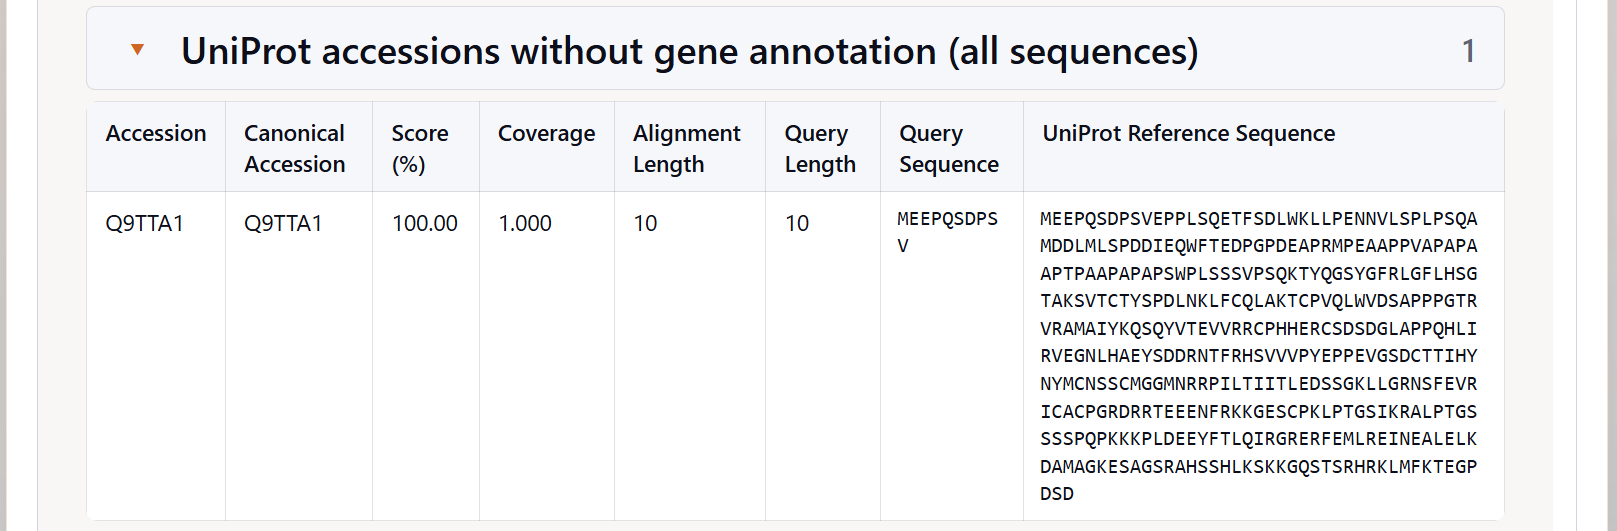
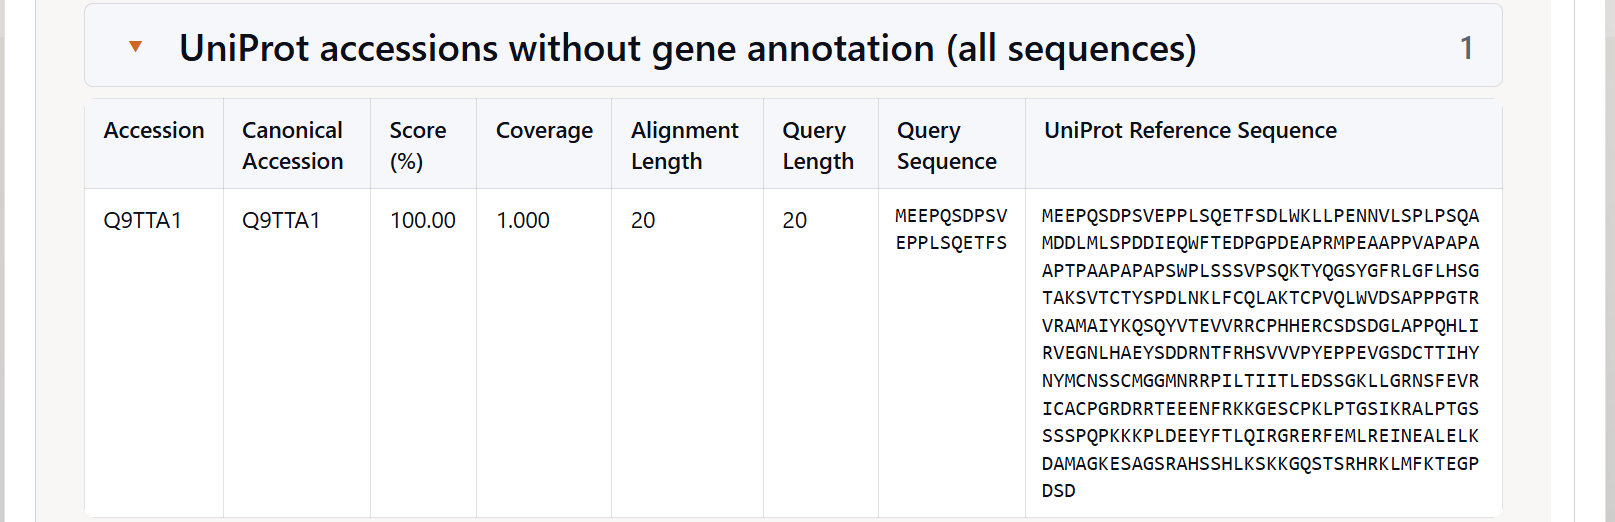
updates_entity_extraction_aa_seq_and_tutorials

diff --git a/src/alvessa/agents/entity_extraction.py b/src/alvessa/agents/entity_extraction.py
@@ -31,7 +31,7 @@ from src.tools.drug_central.drug_extraction import (
 # Amino acid recognition constants
 # ============================================================
 
-MIN_AA_LEN = 10
+MIN_AA_LEN = 16
 AA_CHARS = "ACDEFGHIKLMNPQRSTVWY"
 AA_SET = set(AA_CHARS + AA_CHARS.lower())
 
@@ -218,7 +218,7 @@ def _extract_candidate_sequences(text: str) -> List[str]:
     Rules:
       - AA sequences are contiguous runs of letters from the set:
           ACDEFGHIKLMNPQRSTVWY (case-insensitive).
-      - Minimum length: 10 characters.
+      - Minimum length: MIN_AA_LEN, currently 16 characters.
       - Handles:
           * Inline sequences (e.g., <sequence>MARLGN...</sequence>).
           * FASTA-style blocks (lines after '>' headers are joined).

diff --git a/tutorials/04_aa_seq_to_genes_tool/tutorial.md b/tutorials/04_aa_seq_to_genes_tool/tutorial.md
@@ -1,41 +1,46 @@
 # Amino Acid Sequence–to–Gene Resolution Tool Tutorial
 
-This tutorial explains how to use and interpret the **Amino Acid (AA) Sequence–to–Gene Resolution Tool** in **Alvessa**, using a concrete example to illustrate how short peptide sequences are resolved to genes, UniProt accessions, and isoforms.
+This tutorial explains how to use and interpret the **Amino Acid (AA) Sequence–to–Gene Resolution Tool** in **Alvessa**, using a concrete example to illustrate how peptide sequences are resolved to genes, UniProt accessions, and isoforms.
 
 The tool maps short peptide fragments or full-length amino acid sequences to **gene-associated UniProt records** using a **local SQLite snapshot of UniProtKB**, without requiring internet access.
 
 ---
 ## When the AA Sequence Tool Is Used 
 
-The **AA Sequence Tool is invoked automatically** when Alvessa detects that the user input contains **amino acid sequences** rather than gene symbols. Users do not need to explicitly select the tool. 
-
-## Underlying Database 
-The resolver uses a **local SQLite snapshot of UniProtKB** that includes: 
-- Canonical and non-canonical UniProt accessions
-- Full protein amino acid sequences 
-- Primary gene symbols
-- Optional Entrez Gene identifiers 
- 
- The database is constructed offline and reused across all Alvessa sessions, ensuring reproducibility and eliminating runtime dependency on external services.
-
-### Example queries
- - “Identify the gene for this peptide: MEEPQSDPSV" 
- - “Which gene does this amino acid sequence correspond to? FGEVAKQEEFFNLSHCQLVTLISRDDLNVR” 
- - “Identify the gene for this peptide: CAQYWPQKEEKEMIFEDTNL” 
- - “Map this protein sequence to UniProt and gene information PQYRLEKQSEPNVAVDLDSTLESQSAWEFC"
- - “Resolve the following amino acid sequence to a human gene AAGGYDGQDQLNSVERYDVETETWTFVAPMKHRRSALGIT” 
- 
- If multiple sequences are provided in a single query, each sequence is processed independently.
-
-## Example question with output
-
-> **Identify the gene for this peptide:**  
-> `MEEPQSDPSV`
-
-This is a short (10–amino acid) peptide corresponding to the extreme N-terminus of a well-known human protein. Because short peptides can be shared across multiple isoforms, this example illustrates how the tool reports **gene-level identity**, **canonical UniProt accessions**, and **isoform-level matches** together.
+The **AA Sequence Tool is invoked automatically** when Alvessa detects that the user input contains **amino acid sequences** rather than gene symbols. Users do not need to explicitly select the tool.
 
 ---
+## Underlying Database 
 
+The resolver uses a **local SQLite snapshot of UniProtKB** that includes:
+
+- Canonical and non-canonical UniProt accessions  
+- Full protein amino acid sequences  
+- Primary gene symbols  
+- Optional Entrez Gene identifiers  
+
+The database is constructed offline and reused across all Alvessa sessions, ensuring reproducibility and eliminating runtime dependency on external services.
+
+---
+### Example Queries
+
+- “Identify the gene for this peptide: MEEPQSDPSVEPPLSQETFS”  
+- “Which gene does this amino acid sequence correspond to? FGEVAKQEEFFNLSHCQLVTLISRDDLNVR”  
+- “Identify the gene for this peptide: CAQYWPQKEEKEMIFEDTNL”  
+- “Map this protein sequence to UniProt and gene information PQYRLEKQSEPNVAVDLDSTLESQSAWEFC”  
+- “Resolve the following amino acid sequence to a human gene AAGGYDGQDQLNSVERYDVETETWTFVAPMKHRRSALGIT”  
+
+If multiple sequences are provided in a single query, each sequence is processed independently.
+
+---
+## Example Question with Output
+
+> **Identify the gene for this peptide:**  
+> `MEEPQSDPSVEPPLSQETFS`
+
+This is a **20–amino acid peptide** corresponding to the extreme N-terminus of a well-known human protein. Because peptides of this length may still be shared across multiple isoforms, this example illustrates how the tool reports **gene-level identity**, **canonical UniProt accessions**, and **isoform-level matches** together.
+
+---
 ## Question and Text Summary Output
 
 When the tool is triggered, Alvessa first displays a **text-based answer summary** that interprets the sequence resolution results at a high level.
@@ -46,30 +51,26 @@ When the tool is triggered, Alvessa first displays a **text-based answer summary
 
 For this query, the summary reports:
 
-- The peptide `MEEPQSDPSV` maps to the **TP53** gene  
+- The peptide `MEEPQSDPSVEPPLSQETFS` maps to the **TP53** gene  
 - **Gene:** TP53  
 - **Entrez Gene ID:** 7157  
 - **Canonical UniProt accession:** P04637  
 
-The summary further explains that:
+The verification panel further reports that:
 
-- The query sequence matches **UniProt P04637** with **100% identity**
-- The match corresponds to the **N-terminal sequence** of TP53
-- TP53 has a total length of **393 amino acids**
-- The same N-terminal sequence is present in multiple TP53 isoforms
+- The peptide aligns with **100.00% identity**
+- The alignment length is **20 amino acids**, equal to the query length
+- The sequence corresponds to the **N-terminal region** of the TP53 protein
 
-Specifically, the following isoforms contain an identical match to this peptide:
+The same peptide shows perfect matches to **three TP53 isoforms** in UniProt:
 
-- **Isoform 1:** P04637-1 (p53 / p53α)  
-- **Isoform 2:** P04637-2 (p53β)  
-- **Isoform 3:** P04637-3 (p53γ)  
+- **P04637** (canonical isoform)  
+- **P04637-2** (isoform 2)  
+- **P04637-3** (isoform 3)  
 
-All three isoforms show a **100% identity match** to the 10–amino acid query sequence at their N-terminus.
-
-This summary is intended to answer the user’s question directly while flagging important biological context—namely, that **isoform-level ambiguity is expected for short peptides**.
+All matches show **complete coverage** and identical alignment length, indicating that the peptide is shared across these isoforms.
 
 ---
-
 ## AA Sequence Mapping (UniProt / Genes) Panel
 
 To inspect the matches in detail, the **AA Sequence Mapping (UniProt / Genes) panel** provides a structured, tabular view of all resolved UniProt hits.
@@ -79,11 +80,11 @@ To inspect the matches in detail, the **AA Sequence Mapping (UniProt / Genes) pa
 *AA Sequence Mapping panel overview*
 
 This panel separates results into:
+
 - **Gene-associated UniProt hits**
 - **UniProt accessions without gene annotation**
 
 ---
-
 ## Mapped UniProt Hits for TP53
 
 When **TP53 (Entrez Gene ID: 7157)** is selected, the panel displays all UniProt accessions associated with this gene that match the query sequence.
@@ -104,20 +105,20 @@ In this example, the following entries are shown:
   - Canonical accession: P04637  
 
 Each row reports:
-- Gene symbol (TP53)
-- UniProt accession (canonical and isoform-specific)
-- Entrez Gene ID (7157)
-- Coverage
-- Alignment length
-- Query length
-- Query sequence
-- UniProt reference sequence
 
-These results indicate that the peptide sequence is **not isoform-specific**: it occurs identically in multiple TP53 isoforms.  
-Accordingly, the tool resolves the query confidently at the **gene level**, while retaining **isoform-level transparency**.
+- Gene symbol  
+- UniProt accession (canonical and isoform-specific)  
+- Entrez Gene ID  
+- Coverage  
+- Alignment length  
+- Query length  
+- Query sequence  
+- UniProt reference sequence  
+
+These results indicate that the peptide sequence is **not isoform-specific**.  
+Accordingly, the tool resolves the query confidently at the **gene level**, while retaining **isoform-level detail for transparency**.
 
 ---
-
 ## UniProt Accessions Without Gene Annotation
 
 In addition to gene-associated hits, the panel may also display **UniProt accessions without gene annotation**.
@@ -132,57 +133,52 @@ In this example, one such entry is shown:
 - **Canonical accession:** Q9TTA1  
 
 This table includes:
-- Accession and canonical accession
-- Similarity score
-- Coverage
-- Alignment length
-- Query length
-- Query sequence
-- UniProt reference sequence
 
-Entries in this section typically correspond to:
-- UniProt records lacking an assigned gene symbol
-- Historical or poorly annotated entries
-- Non-standard or unreviewed sequences
+- Accession and canonical accession  
+- Similarity score  
+- Coverage  
+- Alignment length  
+- Query length  
+- Query sequence  
+- UniProt reference sequence  
 
-These hits are preserved for **completeness and auditability**, but they are **not promoted to gene-level objects** unless additional annotation becomes available.
+Entries in this section typically correspond to UniProt records that lack an assigned gene symbol or represent unreviewed or poorly annotated sequences. These hits are retained for **completeness and auditability**, but they are **not promoted to gene-level objects**.
 
 ---
-
 ## Interpretation for This Example
 
-For the peptide `MEEPQSDPSV`:
+For the peptide `MEEPQSDPSVEPPLSQETFS`:
 
 - The **gene identity is unambiguous**: **TP53**
-- The peptide matches the **canonical TP53 protein** (P04637) with 100% identity
+- The peptide matches **UniProt P04637** with **100% identity and coverage**
 - Multiple TP53 isoforms share the same N-terminal sequence
-- Isoform-level resolution is **not possible or necessary** for this peptide alone
-- The tool therefore:
-  - Resolves the query to **TP53 at the gene level**
-  - Retains isoform matches for transparency
-  - Flags unannotated UniProt accessions separately
+- Isoform-level resolution is **not possible or required** based on this peptide alone
 
-This behavior is expected and correct for short peptides derived from conserved regions.
+Accordingly, the tool:
+
+- Resolves the query to **TP53 at the gene level**
+- Retains isoform matches for transparency
+- Separates unannotated UniProt accessions
+
+This behavior is expected for peptides derived from conserved protein regions.
 
 ---
-
 ## Key Takeaways
 
-- Short peptides often map to **multiple isoforms of the same gene**
+- Short and mid-length peptides may map to **multiple isoforms of the same gene**
 - The AA Sequence Tool prioritizes **gene-level resolution**
 - Canonical UniProt accessions are preferred when available
 - Isoforms are retained to reflect biological reality
 - Unannotated UniProt accessions are shown but not promoted
 
 ---
-
 ## Summary
 
-Using the example peptide `MEEPQSDPSV`, the Amino Acid Sequence–to–Gene Resolution Tool demonstrates how Alvessa:
+Using the example peptide `MEEPQSDPSVEPPLSQETFS`, the Amino Acid Sequence–to–Gene Resolution Tool demonstrates how Alvessa:
 
-- Resolves short amino acid sequences to genes
+- Resolves amino acid sequences to genes
 - Handles canonical UniProt accessions and isoforms transparently
 - Distinguishes gene-associated hits from unannotated UniProt records
-- Provides clear, interpretable results suitable for downstream analysis
+- Produces clear, interpretable results suitable for downstream analysis
 
 **Note:** This tool is intended for research and hypothesis generation only and does not provide clinical or diagnostic interpretations.

diff --git a/tutorials/01_protein_tool/tutorial.md b/tutorials/01_protein_tool/tutorial.md
@@ -24,7 +24,7 @@ The **Protein Tool is invoked automatically** if Alvessa determines it is releva
 - “Find ligandable cysteines in KEAP1”
 - “Assess druggability of the protein with this amino acid sequence: PDLSAHNNHMAKVLTPELYAELRAKSTPSG"
 
-You can request analysis for any gene using its gene symbol (Entrez/UniProt-resolved) or a complete or partial amino acid sequence of the protein (typically 15–30 amino acids is sufficient). If a query contains multiple genes, the Protein Tool processes each gene independently.
+You can request analysis for any gene using its gene symbol (Entrez/UniProt-resolved) or a complete or partial amino acid sequence of the protein (typically 16–32 amino acids is sufficient). If a query contains multiple genes, the Protein Tool processes each gene independently.
 
 ---
 
